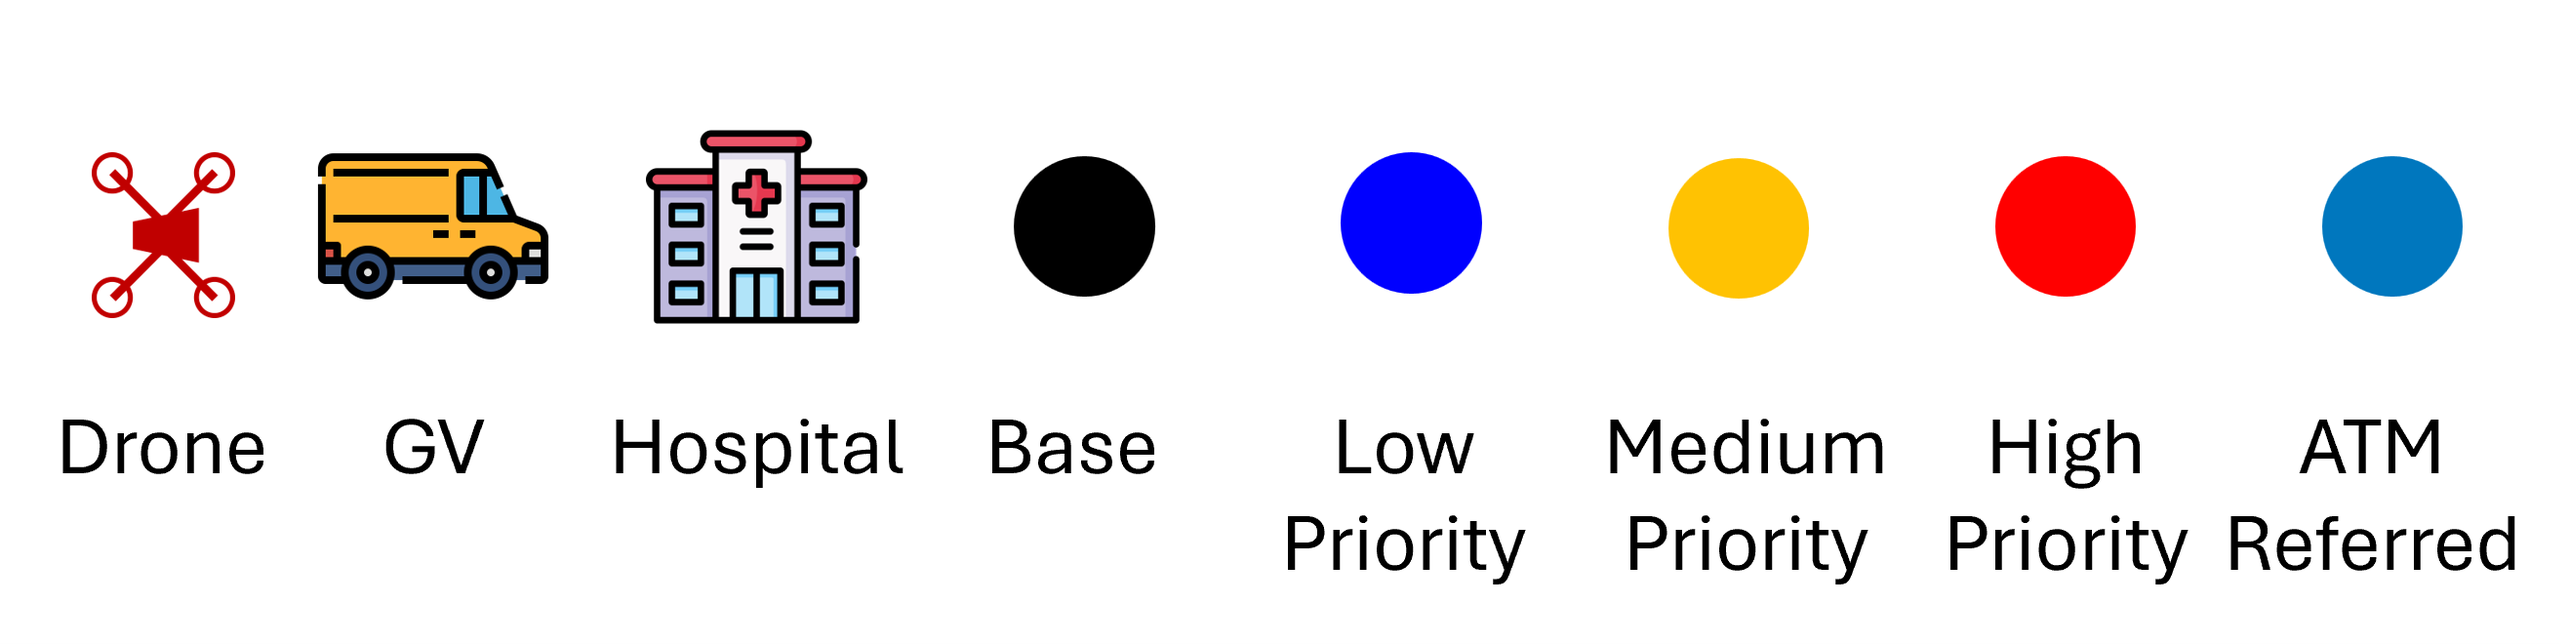
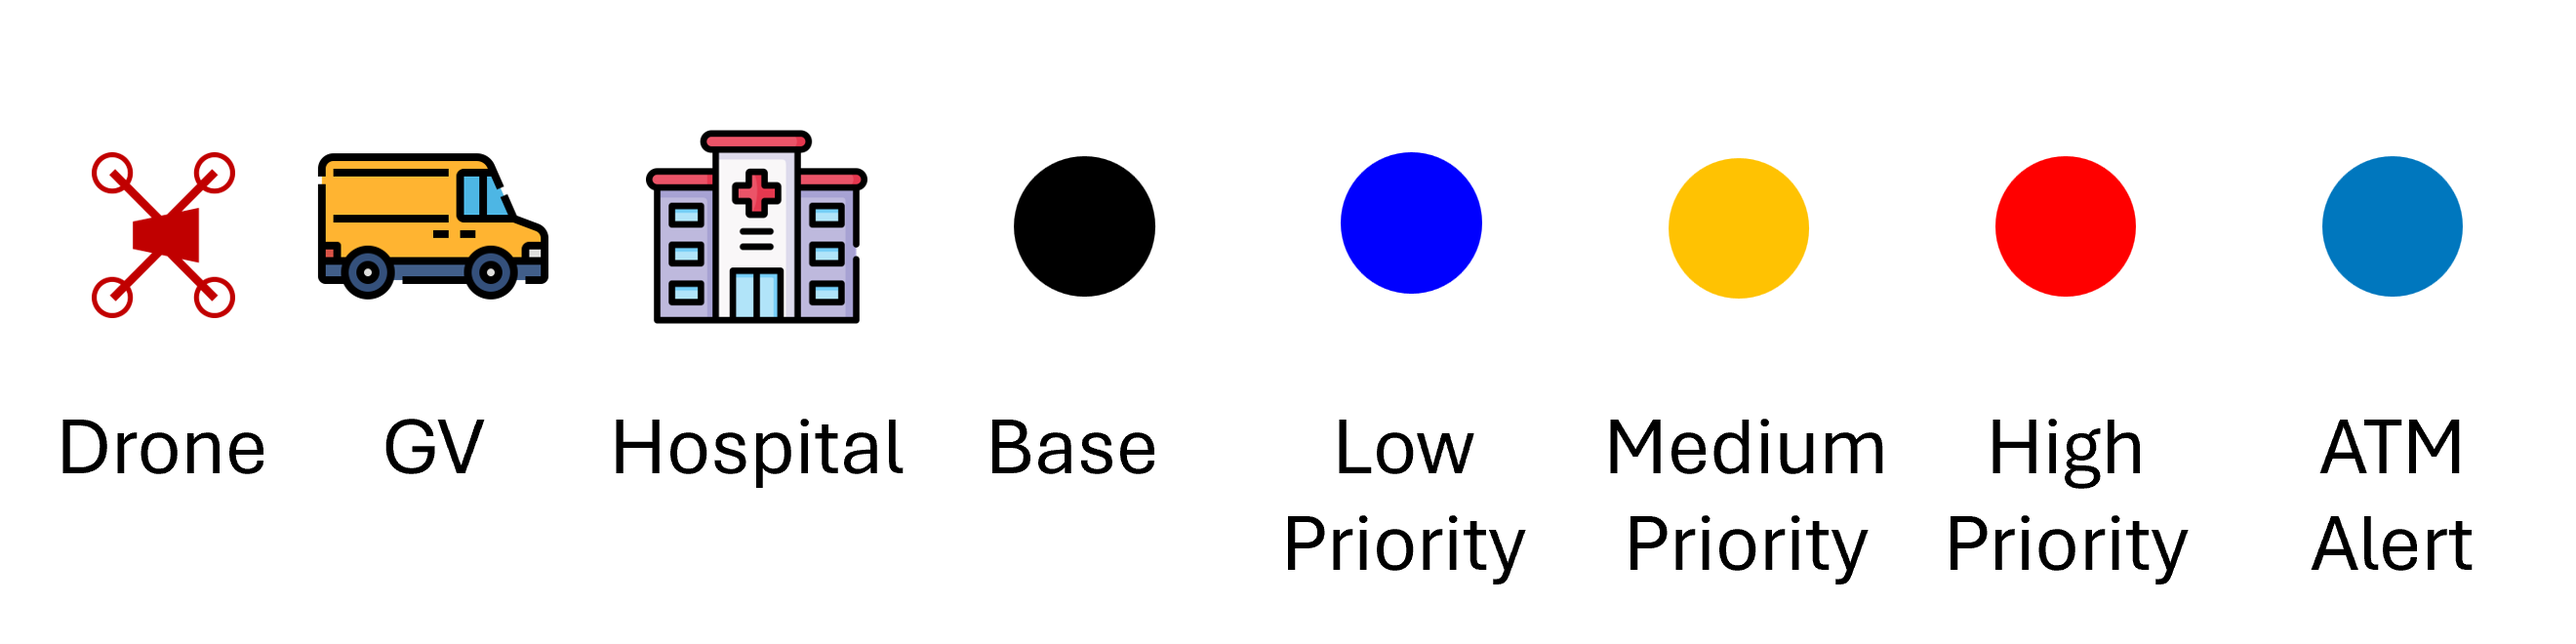
Minor but many enhancements.

diff --git a/examples/main_gui_ltl.py b/examples/main_gui_ltl.py
@@ -9,6 +9,7 @@ from scipy.spatial import Voronoi
 import numpy as np
 import socket
 import json
+import ctypes
 from ltl_core.specification import Specification, ENVIRONMENT_AP_PREFIXES, AP_TYPE_PREFIX_MAP, get_ap_prefix
 from ltl_core.binding_manager import BindingManager
 from ltl_core.workspace import Workspace
@@ -66,6 +67,44 @@ fire_time_credit = 0
 
 # --- Task removal after pickup gating ---
 pickup_cleared = set()
+
+
+def _init_mixer():
+    if not pygame.mixer.get_init():
+        pygame.mixer.init(frequency=44100, size=-16, channels=2, buffer=512)
+    pygame.mixer.set_num_channels(8)
+
+
+def _tone(freq=660, dur=0.15, vol=0.5, sr=44100):
+    """Return a pygame Sound of a single sine tone."""
+    n = int(sr * dur)
+    t = np.linspace(0, dur, n, endpoint=False)
+    wave = (np.sin(2 * np.pi * freq * t) * (32767 * vol)).astype(np.int16)
+    stereo = np.column_stack((wave, wave))
+    return pygame.sndarray.make_sound(stereo.copy())
+
+
+def set_always_on_top(enable=True):
+    """Make the current Pygame window topmost (Windows only)."""
+    try:
+        hwnd = pygame.display.get_wm_info().get("window")
+    except Exception:
+        hwnd = None
+    if not hwnd:
+        return  # window not created yet
+
+    HWND_TOPMOST = -1
+    HWND_NOTOPMOST = -2
+    SWP_NOMOVE = 0x0002
+    SWP_NOSIZE = 0x0001
+    SWP_SHOWWINDOW = 0x0040
+
+    ctypes.windll.user32.SetWindowPos(
+        hwnd,
+        HWND_TOPMOST if enable else HWND_NOTOPMOST,
+        0, 0, 0, 0,
+        SWP_NOMOVE | SWP_NOSIZE | SWP_SHOWWINDOW
+    )
 
 
 def _atm_region_id(pid: int) -> str:
@@ -291,6 +330,7 @@ if __name__ == "__main__":
 
         # === GameMgr for rendering ===
         game_mgr = GameMgr(drones, gvs, humans, ws)
+        set_always_on_top(True)
 
         # === Get drone start positions in GUI space ===
         takeoff_positions = [agent.pos[:2] for agent in agents_by_type["drones"]]
@@ -351,6 +391,10 @@ if __name__ == "__main__":
 
         # The main loop for the GUI
         print('Main GUI initialized')
+
+        # Play short beep
+        _init_mixer()
+        _tone(660, 0.4, 0.8).play()
 
         buffers = {
             'idx_image':[],
@@ -613,24 +657,25 @@ if __name__ == "__main__":
                 # 2. possible new survivor messages (symptom-based triage)
                 if (survivormsg_idx < len(SURVIVORMSG_TIMES)
                         and running_time >= SURVIVORMSG_TIMES[survivormsg_idx]):
+                    # Only allow if at least one survivor scan credit exists
+                    if surv_credit > 0 and current_surv_prompt is None and len(tasks) > 0:
+                        sev = random.choice([1, 2, 3])  # 1=Minor,2=Serious,3=Emergency
+                        picks = random.sample(triage_symptoms[sev], k=3)
+                        correct = {1:"Minor", 2:"Serious", 3:"Emergency"}[sev]
 
-                    # Pick a random severity bucket, then 3 symptoms from it
-                    sev = random.choice([1, 2, 3])  # 1=Minor,2=Serious,3=Emergency
-                    picks = random.sample(triage_symptoms[sev], k=3)
-                    correct = {1:"Minor", 2:"Serious", 3:"Emergency"}[sev]
+                        surv_prompt_id += 1
+                        current_surv_prompt = {
+                            "id": surv_prompt_id,
+                            "text": "Assess the patient based on these symptoms:",
+                            "symptoms": picks,    # <<< send the 3 symptoms
+                            "correct": correct
+                        }
+                        surv_sent_for_prompt.clear()
 
-                    surv_prompt_id += 1
-                    current_surv_prompt = {
-                        "id": surv_prompt_id,
-                        "text": "Assess the patient based on these symptoms:",
-                        "symptoms": picks,    # <<< send the 3 symptoms
-                        "correct": correct
-                    }
-                    surv_sent_for_prompt.clear()
-
-                    labeler.advance({"p_survivormsg_0_0_0_0"})
+                        labeler.advance({"p_survivormsg_0_0_0_0"})
+                        surv_credit -= 1
+                    # Regardless of whether we used it, move to the next scheduled time
                     survivormsg_idx += 1
-                    surv_credit -= 1 
 
                 # 3. ATM scheduler (prompt + env broadcast)
                 if (atmmsg_idx < len(ATMMSG_TIMES)) and (running_time >= ATMMSG_TIMES[atmmsg_idx]):
@@ -684,7 +729,6 @@ if __name__ == "__main__":
 
                                 image_id = survivor_images[survivor_index]
                                 survivor_index += 1
-                                surv_credit += 1
                                 print(f"time: {running_time}, survivor_index: {survivor_index}, AP: {ap}, Image: {image_id}")
 
                                 # Keep for later; only send when p_verify_* is actually assigned
@@ -779,6 +823,9 @@ if __name__ == "__main__":
                         labeler.advance({verify_ap, chosen_gate})
                     else:
                         labeler.advance({verify_ap})
+                    
+                    # Award survivor triage credit only after a verification completes
+                    surv_credit += 1
 
                     # bookkeep
                     if image_id is not None:

diff --git a/examples/gui_panel_ltl.py b/examples/gui_panel_ltl.py
@@ -388,6 +388,26 @@ class GameMgr:
         ]
         ############# Human workload ends #################
 
+    def draw_grid(self, step_cells=5, grid_size=(50, 40), color=(220, 220, 220), width=1):
+        """
+        Draw grid lines every `step_cells` cells over the 1125x900 map area.
+        grid_size = (#cols, #rows) in your world grid.
+        """
+        cols, rows = grid_size
+        cell_w = 1125 / cols
+        cell_h = 900 / rows
+
+        # Vertical lines
+        x = 0.0
+        for c in range(0, cols + 1, step_cells):
+            x = int(round(c * cell_w))
+            pygame.draw.line(self.screen, color, (x, 0), (x, 900), width)
+
+        # Horizontal lines
+        for r in range(0, rows + 1, step_cells):
+            y = int(round(r * cell_h))
+            pygame.draw.line(self.screen, color, (0, y), (1125, y), width)
+
     def set_voronoi(self):
         print(IMAGE_PATH + 'voronoi_regions.png')
         self.vor = Background(file_name=IMAGE_PATH + 'voronoi_regions_cropped.png',
@@ -405,6 +425,9 @@ class GameMgr:
         self.screen.fill(WHITE)
         self.screen.blit(self.background.surface, self.background.rect)
         # self.screen.blit(self.vor.surface, self.vor.rect)
+
+        # draw a light grid every 5 cells
+        self.draw_grid(step_cells=5, grid_size=(50, 40), color=(210, 210, 210), width=1)
 
         # ---- draw all rectangular obstacles ----
         env_obj = self.workspace.env 
@@ -636,8 +659,8 @@ class GameMgr:
         elif priority == 2:
             color = RED
 
-        pygame.draw.circle(self.screen, color, pos, 10)
-        font = pygame.font.Font(None, 24)
+        pygame.draw.circle(self.screen, color, pos, 15)
+        font = pygame.font.Font(None, 32)
         text = font.render(f'{idx}', True, WHITE)
         self.screen.blit(text, (pos[0]-6, pos[1]-6))
 

diff --git a/examples/gui_user.py b/examples/gui_user.py
@@ -844,7 +844,10 @@ if __name__ == '__main__':
 
             # Send response back to the server if it has changed
             if response_changed:
-                response['workload'] = float(gui.pred_label)
+                if gui.pred_label is not None:
+                    response['workload'] = float(gui.pred_label)
+                else:
+                    response['workload'] = 0.0  # default workload value
                 print(response['tasks'])
                 msg = json.dumps(response) + '\n'
                 s.sendall(msg.encode('utf-8'))
